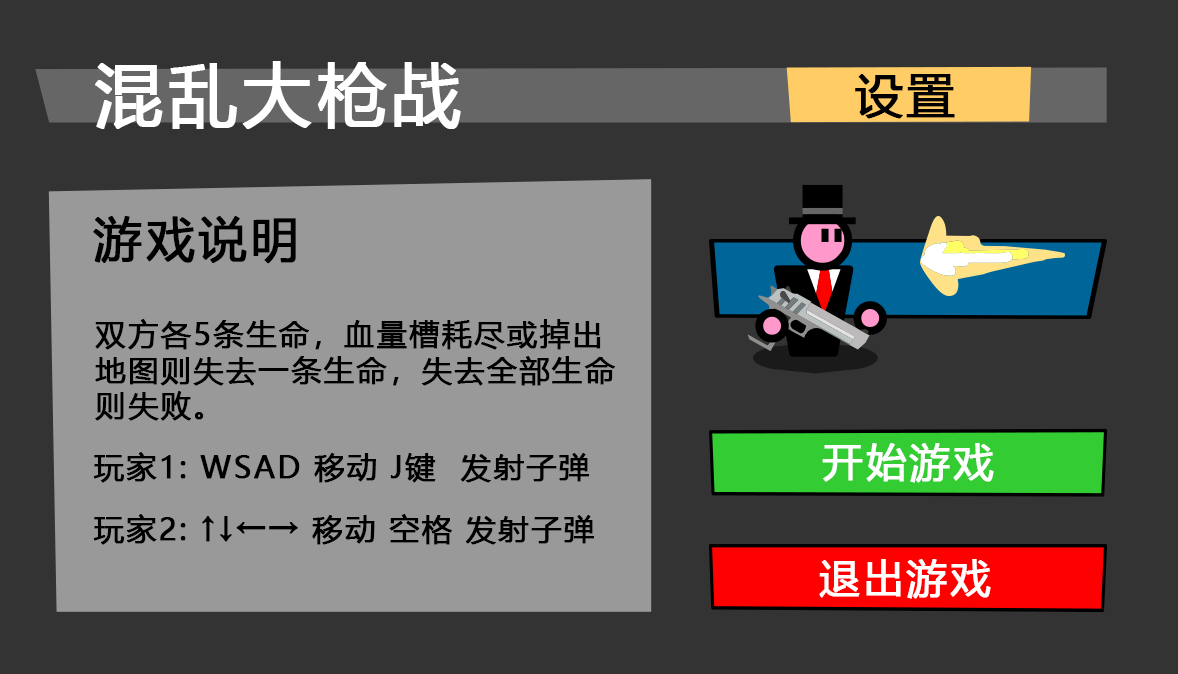
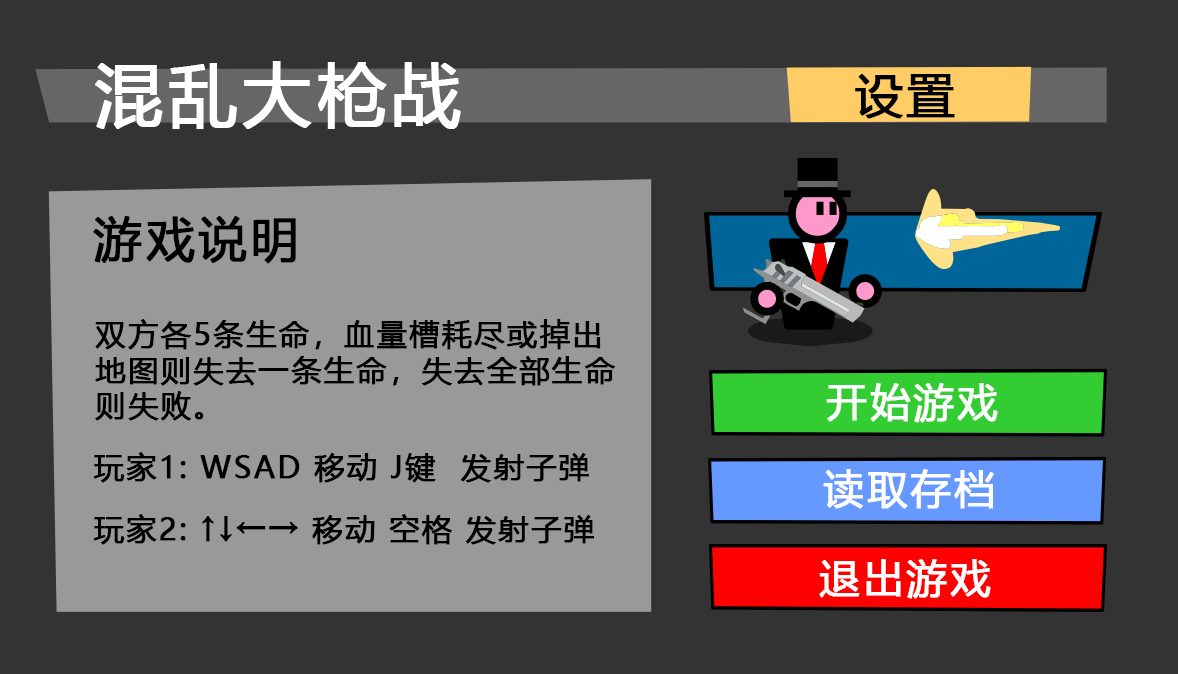
1.change some pictures. 2.use .ini privatefile to replace past file 3.add save and load data function

Changed region(s): [[0.5806, 0.2181, 0.9474, 0.7789]]

diff --git a/main.cpp b/main.cpp
@@ -19,7 +19,7 @@
 int main () {
 	ExMessage m;
 	clock_t time;
-	initgraph (width, height, SHOWCONSOLE);
+	initgraph (width, height);
 	initsettings();
 	initimage();
 	initgame();
@@ -29,10 +29,16 @@ int main () {
 		while (state == menu) {
 			putimage(0, 0, &gameimage.start);
 			m = getmessage(EM_MOUSE);
-			if (m.lbutton && m.x > 709 && m.x < 1109 && m.y > 428 && m.y < 498) {
+			if (m.lbutton && m.x > 709 && m.x < 1109 && m.y > 368 && m.y < 438) {
 				state = game;
 				flushmessage(EM_MOUSE);
 				startgame();
+			}
+			if (m.lbutton && m.x > 709 && m.x < 1109 && m.y > 456 && m.y < 526) {
+				state = game;
+				flushmessage(EM_MOUSE);
+				startgame();
+				loaddata();
 			}
 			if (m.lbutton && m.x > 709 && m.x < 1109 && m.y > 544 && m.y < 613) {
 				closegraph();
@@ -89,6 +95,7 @@ int main () {
 			if (m.lbutton && m.x < 330 && m.y > 545 && m.y < 600) {
 				state = menu;
 				flushmessage(EM_MOUSE);
+				savedata();
 			}
 		}
 		while (state == state_setting) {

diff --git a/bullet.cpp b/bullet.cpp
@@ -65,6 +65,22 @@ void addbullet(int rolenum) {
   }
 }
 
+void loadbullet(int x, int y, int player, int direction) {
+  bullet* newbullet = (bullet*)malloc(sizeof(bullet));
+  if (newbullet == NULL)
+    return;
+  else {
+  newbullet->x = x;
+  newbullet->y = y;
+  newbullet->player = player;
+  newbullet->direction = direction;
+  newbullet->next = bullethead->next;
+  bullethead->next = newbullet;
+  return;
+  }
+
+}
+
 inline int getbulletx(bullet *p) {
   if (p->direction == rightdire) {
     return (p->x) + 85;

diff --git a/Settings.cpp b/Settings.cpp
@@ -15,8 +15,8 @@ char char_rolelives[10];
 
 int initialhp = 20;
 
-int bornx[2] = { 350, 700 };
-int borny[2] = { -100, -100 };
+double bornx[2] = { 350, 700 };
+double borny[2] = { -100, -100 };
 
 void showsettings() {
   drawAlpha(&gameimage.settings, 0, 0);

diff --git a/bullet.h b/bullet.h
@@ -16,6 +16,7 @@ extern bullet* bullettail;
 
 void initbullet();
 void addbullet(int rolenum);
+void loadbullet(int x, int y, int player, int direction);
 int getbulletx(bullet* p);
 int getbullety(bullet* p);
 int getbulletendx(bullet* p);

diff --git a/Settings.h b/Settings.h
@@ -20,8 +20,8 @@ extern int rolelives;
 
 extern int initialhp;
 
-extern int bornx[2];
-extern int borny[2];
+extern double bornx[2];
+extern double borny[2];
 
 void showsettings();
 void changesetting(int& settings);

diff --git a/control.h b/control.h
@@ -19,6 +19,8 @@ void startgame();
 void initgame();
 void initsettings();
 void writesettings();
+void savedata();
+void loaddata();
 int centerx(IMAGE& back, IMAGE& front);
 
 extern LOGFONT myfont;
